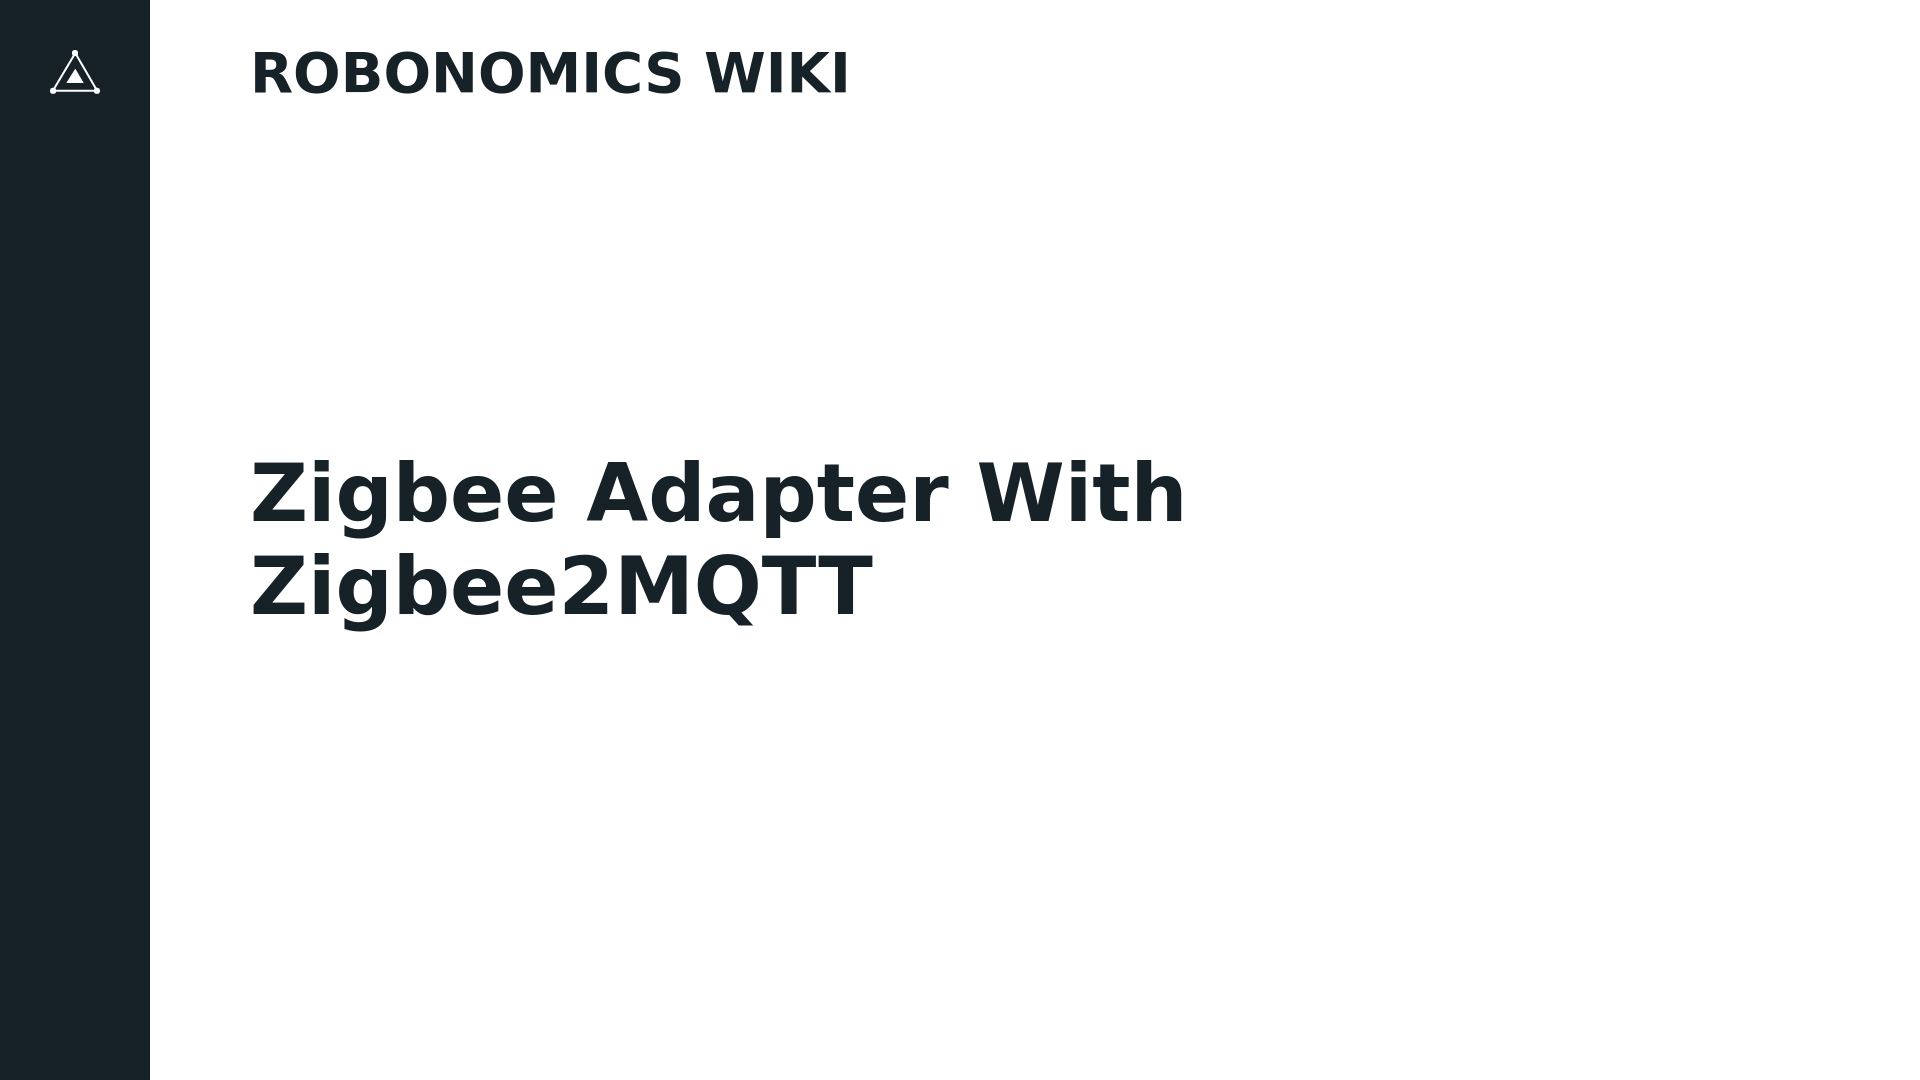
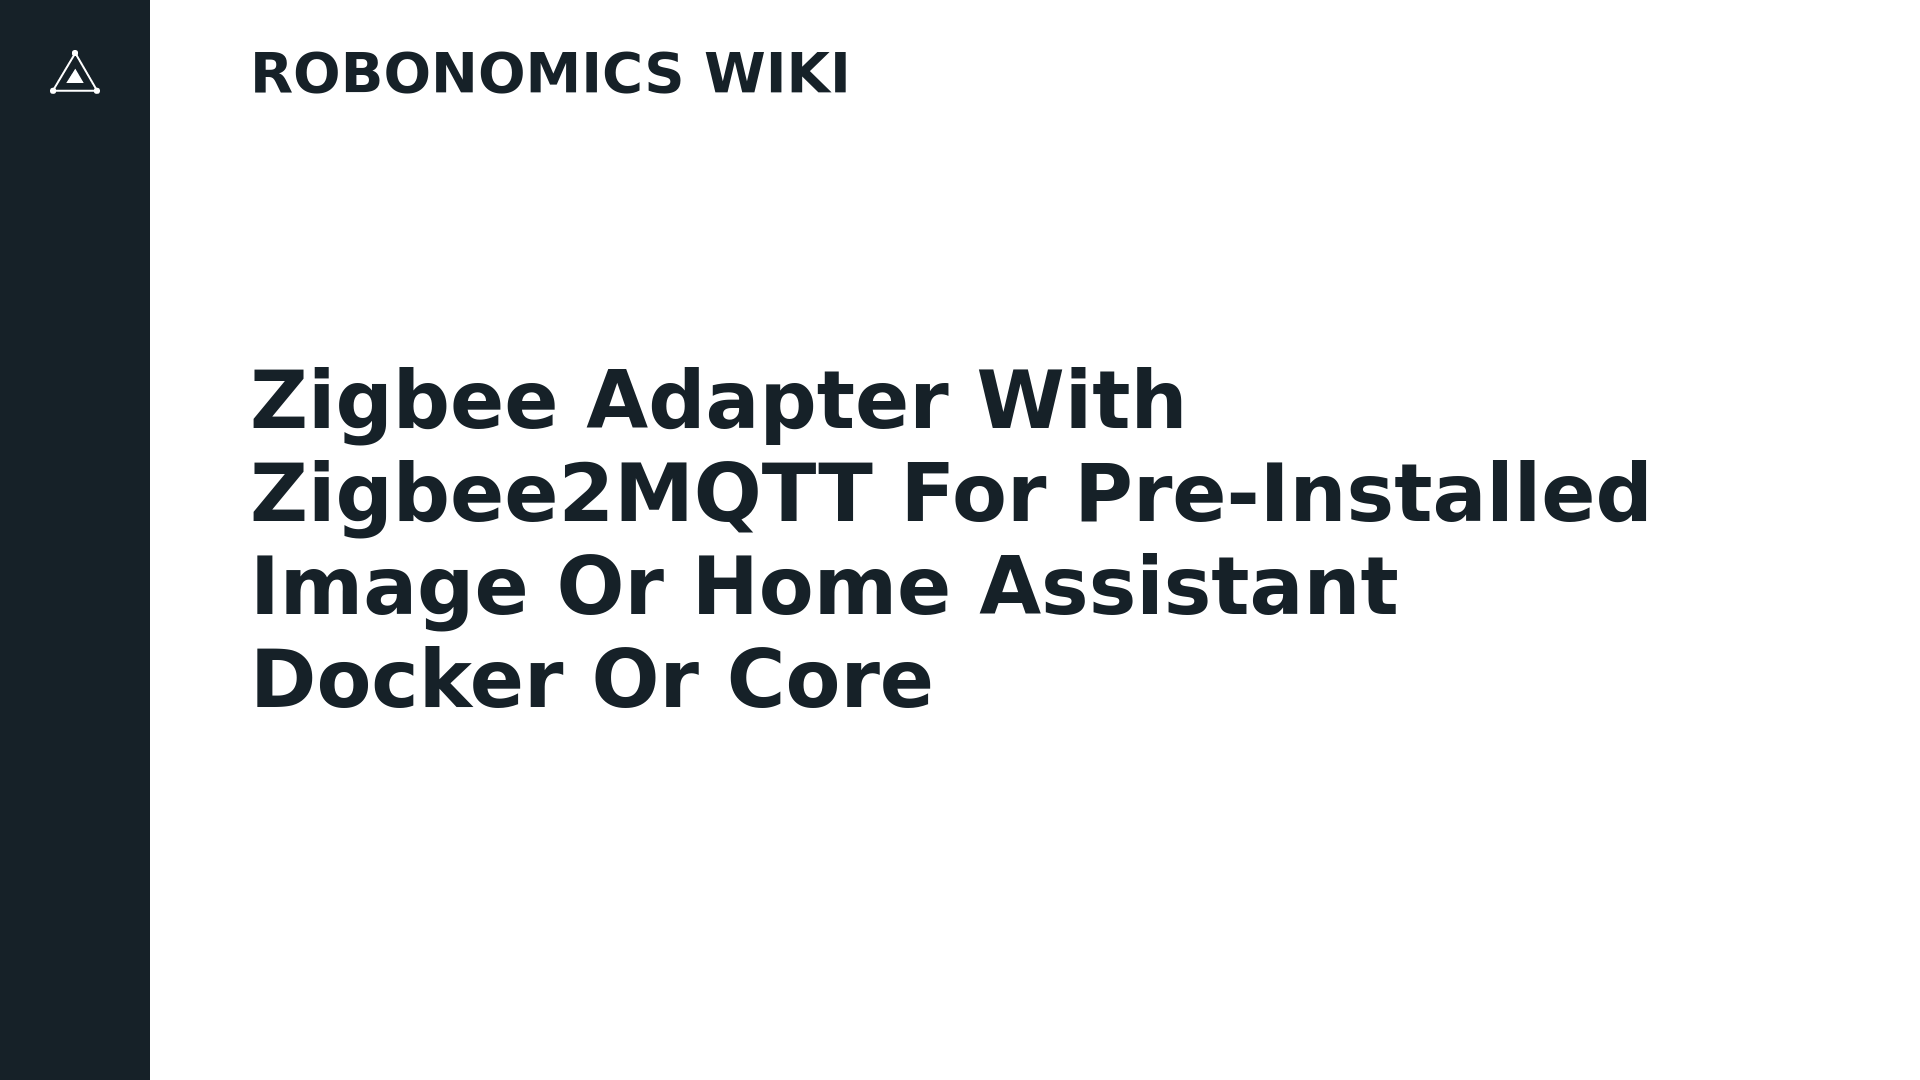
Added article about Zigbee2MQTT for HassOS

Changed region(s): [[0.125, 0.3361, 0.875, 0.6722]]

diff --git a/docs/zigbee-to-mqtt-hassos.md b/docs/zigbee-to-mqtt-hassos.md
@@ -1,0 +1,136 @@
+---
+title: Zigbee Adapter with Zigbee2MQTT Addon for Home Assistant OS
+
+contributors: [Fingerling42]
+tools:
+  - Home Assistant OS 64-9.5 for RaspPi
+    https://github.com/home-assistant/operating-system/releases/tag/9.5
+  - Zigbee2MQTT Home Assistant Addon 1.30.2-1
+    https://github.com/zigbee2mqtt/hassio-zigbee2mqtt/releases/tag/v1.30.2-1
+---
+
+**In this article you will set up your Zigbee adapter for HassOS.**
+
+<robo-wiki-picture src="home-assistant/zigbee2mqtt.png" />
+
+**If you have the [JetHome USB JetStick Z2](https://jethome.ru/z2/?sl=en) (which has all of the necessary firmware), you can simply proceed with these instructions. However, if you have another adapter, the first thing you need to do is to flash it with Zigbee2MQTT software. You can find instructions for your device [here](https://www.zigbee2mqtt.io/information/supported_adapters.html).**
+
+## Zigbee2MQTT Addon Install
+
+1. Go to the Add-on store, click ⋮ on the upper right corner and choose `Repositories`. Add there the following link and press `ADD`:
+```
+https://github.com/zigbee2mqtt/hassio-zigbee2mqtt
+```
+2. Close the repository manager and refresh the page. Find `Zigbee2MQTT` addon and `INSTAL` it (do not confuse with Zigbee2MQTT Edge).
+
+## Configuration and Run
+
+1. Connect the Zigbee adapter to Raspberry Pi.
+
+<robo-wiki-picture src="home-assistant/connect-stick.gif" />
+
+2. Find the location of the adapter. For this open SSH Add-on and run the following command:
+
+<code-helper copy additionalLine="Hass Command Line">
+
+```bash
+ha hardware info
+```
+
+</code-helper>
+
+In output find the strings like this:
+
+<code-helper additionalLine="Hass Command Line">
+
+```bash
+- attributes:
+    DEVLINKS: /dev/serial/by-id/usb-Silicon_Labs_CP2102_USB_to_UART_Bridge_Controller_0001-if00-port0
+       /dev/serial/by-path/platform-fd500000.pcie-pci-0000:01:00.0-usb-0:1.1:1.0-port0
+    DEVNAME: /dev/ttyUSB0
+    DEVPATH: /devices/platform/scb/fd500000.pcie/pci0000:00/0000:00:00.0/0000:01:00.0/usb1/1-1/1-1.1/1-1.1:1.0/ttyUSB0/tty/ttyUSB0
+    ID_BUS: usb
+    ID_MODEL: CP2102_USB_to_UART_Bridge_Controller
+    ID_MODEL_ENC: CP2102\x20USB\x20to\x20UART\x20Bridge\x20Controller
+    ID_MODEL_ID: ea60
+    ID_PATH: platform-fd500000.pcie-pci-0000:01:00.0-usb-0:1.1:1.0
+    ID_PATH_TAG: platform-fd500000_pcie-pci-0000_01_00_0-usb-0_1_1_1_0
+    ID_REVISION: "0100"
+    ID_SERIAL: Silicon_Labs_CP2102_USB_to_UART_Bridge_Controller_0001
+    ID_SERIAL_SHORT: "0001"
+    ID_TYPE: generic
+    ID_USB_DRIVER: cp210x
+    ID_USB_INTERFACE_NUM: "00"
+    ID_USB_INTERFACES: ':ff0000:'
+    ID_VENDOR: Silicon_Labs
+    ID_VENDOR_ENC: Silicon\x20Labs
+    ID_VENDOR_ID: 10c4
+    MAJOR: "188"
+    MINOR: "0"
+    SUBSYSTEM: tty
+    TAGS: ':systemd:'
+    USEC_INITIALIZED: "10937474053"
+by_id: /dev/serial/by-id/usb-Silicon_Labs_CP2102_USB_to_UART_Bridge_Controller_0001-if00-port0
+children: []
+dev_path: /dev/ttyUSB0
+name: ttyUSB0
+subsystem: tty
+sysfs: /sys/devices/platform/scb/fd500000.pcie/pci0000:00/0000:00:00.0/0000:01:00.0/usb1/1-1/1-1.1/1-1.1:1.0/ttyUSB0/tty/ttyUSB0
+```
+
+</code-helper>
+
+In this example device connection directory is `/dev/ttyUSB0`.
+
+3. Before starting Zigbee2MQTT you need to configure it. Click on `Configuration` in the Zigbee2MQTT addon. The basic options needs a few adjustments, change the following statements:
+
+- In `serial` field add the device connection directory:
+
+<code-helper copy>
+
+```yaml
+port: /dev/ttyUSB0
+```
+
+</code-helper>
+
+- Leave `mqtt` field **empty when using the Mosquitto** broker addon, otherwise add in your MQTT details in the [proper format](https://www.zigbee2mqtt.io/guide/configuration/mqtt.html#server-connection).
+
+4. Start the addon by going to `Info` and click `START`.
+
+5. Wait till Zigbee2MQTT starts and press `OPEN WEB UI` to verify Zigbee2MQTT started correctly.
+
+<robo-wiki-note type="warning">
+
+  If you already have an active Zigbee adapter or gateway in your home, and you are now configuring another adapter, then they will conflict with each other. To solve this problem you need to change the channel on the new device.
+
+  To do that you need to open Zigbee2MQTT Web UI, go to `Settings` → `Advanced` and change `ZigBee channel` field.
+
+  You also will need to delete `coordinator_backup.json` to refresh channel on the adapter. To do this, open the SSH Add-on and find location of the zigbee2mqtt config and after that, restart Zigbee2MQTT addon:
+
+</robo-wiki-note>
+
+<code-helper additionalLine="Hass Command Line">
+
+```bash
+cd config/zigbee2mqtt
+rm coordinator_backup.json
+```
+
+</code-helper>
+
+## Pairing Device
+
+1. Open Zigbee2MQTT Web UI and click on the `Permit join` button.
+
+2. The most common way to switch a device to connect mode is to hold its power button or switch them on/off 5 times.
+
+<robo-wiki-picture src="home-assistant/switch-device.gif" />
+
+3. When the device connects, you should see the it in the Zigbee2MQTT Web UI.
+
+<robo-wiki-picture src="home-assistant/zigbee-2-mqtt-addon-ui.png" />
+
+4. Now you should see the device with the same IEEE Address in your Home Assistant Web UI. Go to `Settings` -> `Devices & Services` -> `Devices`.
+
+Now you can go to the [**IoT Subscription**](/docs/sub-activate) section and start activating the Robonomics subscription.

diff --git a/docs/mqtt-integration.md b/docs/mqtt-integration.md
@@ -26,8 +26,11 @@ tools:
 
 Now, you can proceed to add devices. Depending on the hardware you have, choose one of the options:
 
-**Option 1 (with zigbee2MQTT)**
-* For Zigbee adapter [go here](/docs/zigbee-to-mqtt/). Ideal for [JetHome USB JetStick Z2](https://jethome.ru/z2/?sl=en) or similar [supported adapters](https://www.zigbee2mqtt.io/information/supported_adapters.html).
+**Option 1 (with zigbee2MQTT for Home Assistant OS)**
+* For Zigbee adapter and Home Assistant OS [go here](/docs/zigbee-to-mqtt-hassos/). Ideal for [JetHome USB JetStick Z2](https://jethome.ru/z2/?sl=en) or similar [supported adapters](https://www.zigbee2mqtt.io/information/supported_adapters.html).
 
-**Option 2 (with SLS Gateway)**
-* For Robonomics SLS Gateway [go here](/docs/sls-gateway/). Open SLS gateway specs your can [find here](https://easyeda.com/ludovich88/robonomics_sls_gateway_v01).
+**Option 2 (with zigbee2MQTT for for pre-installed image or Home Assistant Docker or Core)**
+* For Zigbee adapter with others options of the Hass installation [go here](/docs/zigbee-to-mqtt/). Ideal for [JetHome USB JetStick Z2](https://jethome.ru/z2/?sl=en) or similar [supported adapters](https://www.zigbee2mqtt.io/information/supported_adapters.html).
+
+**Option 3 (with SLS Gateway)**
+* For Robonomics SLS Gateway regardless of the Hass installation options [go here](/docs/sls-gateway/). Open SLS gateway specs your can [find here](https://easyeda.com/ludovich88/robonomics_sls_gateway_v01).

diff --git a/docs/zigbee-to-mqtt.md b/docs/zigbee-to-mqtt.md
@@ -1,12 +1,14 @@
 ---
-title: Zigbee Adapter with Zigbee2MQTT
+title: Zigbee Adapter with Zigbee2MQTT for Pre-installed Image or Home Assistant Docker or Core
 
 contributors: [nakata5321, PaTara43]
 tools:
   - Zigbee2MQTT 1.28.2
+    https://github.com/Koenkk/zigbee2mqtt/releases/tag/1.28.2
+
 ---
 
-**In this article you will set up your Zigbee adapter.**
+**In this article you will set up your Zigbee adapter for Robonomics pre-installed image or Home Assistant Docker or Home Assistant Core.**
 
 <robo-wiki-picture src="home-assistant/zigbee2mqtt.png" />
 
@@ -318,8 +320,6 @@ sudo systemctl enable zigbee2mqtt.service
 ```
 
 </code-helper>
-
-## Next step
 
 Now you can go to the [**IoT Subscription**](/docs/sub-activate) section and start activating the Robonomics subscription.
 
